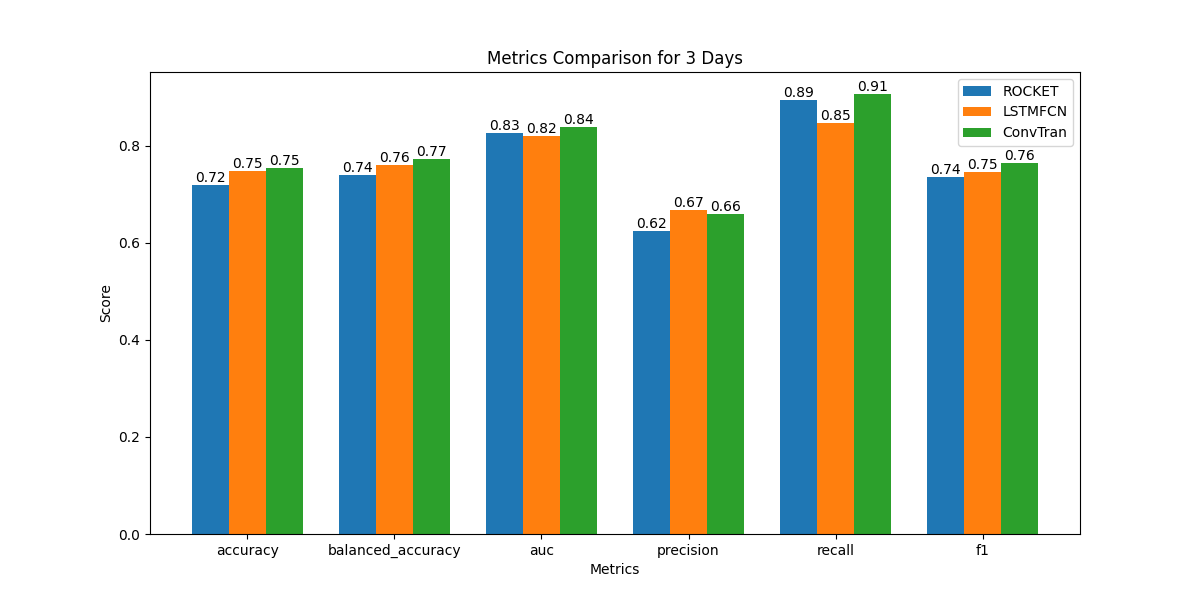
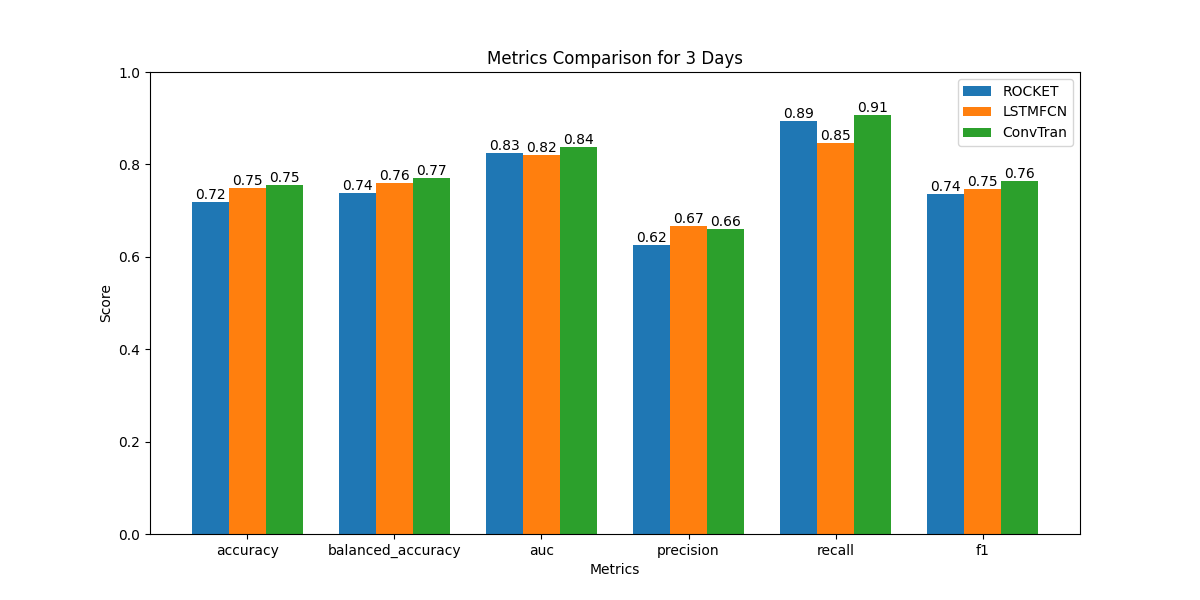
Plots update

diff --git a/_04_test/_01_mcNemarTest.py b/_04_test/_01_mcNemarTest.py
@@ -1,6 +1,6 @@
 import os
 import sys
-import argparse
+import matplotlib.pyplot as plt
 import torch
 import numpy as np
 from statsmodels.stats.contingency_tables import mcnemar
@@ -48,7 +48,7 @@ def predict(model_type: str, model: Any, X: np.ndarray, params: Dict, device: to
     return np.array(preds)
 
 def mcnemar_test(y_true: np.ndarray, pred1: np.ndarray, pred2: np.ndarray, 
-                 model_names: Tuple[str, str], output_dir: str) -> float:
+                 model_names: Tuple[str, str]) -> float:
     """Perform McNemar's test and save results"""
     # Create contingency table
     correct_1 = (pred1 == y_true)
@@ -62,29 +62,53 @@ def mcnemar_test(y_true: np.ndarray, pred1: np.ndarray, pred2: np.ndarray,
     # Perform statistical test
     result = mcnemar(contingency_table, exact=True)
     
-    # Save visualization
-    img_path = os.path.join(output_dir, f"mcnemar_{model_names[0]}_vs_{model_names[1]}.png")
-    _myFunctions.save_contingency_matrix_with_mcnemar(
-        contingency_table, img_path, model_names[0], model_names[1], result.pvalue
-    )
-
     # Print results
     print(f"\nMcNemar's Test Results ({' vs '.join(model_names)}):")
     print(f"Contingency Table:\n{np.array(contingency_table)}")
     print(f"p-value: {result.pvalue:.4f}")
     print("Statistically significant" if result.pvalue < 0.05 else "No significant difference")
     
-    return result.pvalue
+    return result.pvalue, np.array(contingency_table), model_names
 
-def compare_with_McNemar(models_type: str, days: Tuple[int, int], data_dir: str, model_dir: str, base_output_dir: str):
+def create_combined_contingency_plot(contingency_data: list, output_dir: str):
+    """Create a combined plot with multiple contingency matrices"""
+    n = len(contingency_data)
+    fig, axes = plt.subplots(1, n, figsize=(6*n, 6), constrained_layout=True)
 
+    for idx, (contingency_table, model_names, p_value) in enumerate(contingency_data):
+        ax = axes[idx] if n > 1 else axes
+        im = ax.imshow(contingency_table, cmap='Blues')
+        
+        # Add text annotations
+        for i in range(2):
+            for j in range(2):
+                ax.text(j, i, str(contingency_table[i, j]), 
+                        ha='center', va='center',
+                        fontsize=14, color='white' if contingency_table[i, j] > np.max(contingency_table) / 2 else 'black')
+                        
+        # Configure axes
+        ax.set_title(f"{model_names[0]} vs {model_names[1]}\np-value: {p_value:.2e}")
+        ax.set_xlabel(f'{model_names[1]} Predictions', fontsize=12)
+        ax.set_ylabel(f'{model_names[0]} Predictions')
+        ax.set_xticks([0, 1])
+        ax.set_yticks([0, 1])
+        ax.set_xticklabels(["Model 2 Wrong", "Model 2 Correct"], fontsize=12)
+        ax.set_yticklabels(["Model 1 Wrong", "Model 1 Correct"], fontsize=12)
+
+        # Add colorbar
+        cbar = fig.colorbar(im, ax=ax, fraction=0.04, pad=0.04)
+        cbar.ax.tick_params(labelsize=12)
+
+    plt.savefig(os.path.join(output_dir, "combined_contingency_matrices.png"), dpi=300)
+    plt.close()
+
+def compare_with_McNemar(models_type: str, days: Tuple[int, int], data_dir: str, model_dir: str, output_dir: str):
+    device = torch.device("cuda" if torch.cuda.is_available() else "cpu")
+    os.makedirs(output_dir, exist_ok=True)
+    contingency_data = []
+    
     for model_type in models_type:
-        output_dir=os.path.join(base_output_dir, model_type)
-
         """Main comparison workflow"""
-        device = torch.device("cuda" if torch.cuda.is_available() else "cpu")
-        os.makedirs(output_dir, exist_ok=True)
-
         # Load both models
         models = []
         for day in days:
@@ -107,9 +131,11 @@ def compare_with_McNemar(models_type: str, days: Tuple[int, int], data_dir: str,
 
         # Perform statistical test
         model_names = [f"{model_type}_{day}Days" for day in days]
-        mcnemar_test(models[0][3], *predictions, model_names, output_dir)
+        p_value, contingency_table, model_names = mcnemar_test(models[0][3], *predictions, model_names)
+        contingency_data.append((contingency_table, model_names, p_value))
 
-
+    # Create combined plot
+    create_combined_contingency_plot(contingency_data, output_dir)
 
 if __name__ == "__main__":
     models_type = ["ROCKET","LSTMFCN","ConvTran"]
@@ -123,5 +149,5 @@ if __name__ == "__main__":
         days=days,
         data_dir=data_dir,
         model_dir=model_dir,
-        base_output_dir=base_output_dir
+        output_dir=base_output_dir
         )

diff --git a/_04_test/_00_test_roc_bar_metrics.py b/_04_test/_00_test_roc_bar_metrics.py
@@ -128,7 +128,11 @@ def test_all(base_path = os.path.join(current_dir, "plots_and_metrics_test"),
             # Store confusion matrix
             conf_matrices[model_name] = metrics['conf_matrix']
             # Store predictions for UMAP
-            day_umap_data['models'][model_name] = y_prob
+            day_umap_data['models'][model_name] = {
+                'prob': y_prob,
+                'pred': y_pred,  # Store threshold-based predictions
+                'threshold': threshold  # Store the actual threshold used
+                }
             
             """
             # ---------------------------
@@ -241,6 +245,7 @@ def test_all(base_path = os.path.join(current_dir, "plots_and_metrics_test"),
         plt.title(f'Metrics Comparison for {day} Days')
         plt.xlabel('Metrics')
         plt.ylabel('Score')
+        plt.ylim((0,1))
         plt.xticks(index + bar_width, metrics)
         plt.legend()
         output_path_per_day = os.path.join(base_path,f"day {day}")
@@ -289,21 +294,23 @@ def test_all(base_path = os.path.join(current_dir, "plots_and_metrics_test"),
         # Plot model predictions in subsequent columns
         for model_idx, model_name in enumerate(models, start=1):
             ax = fig.add_subplot(gs[day_idx, model_idx])
-            y_prob = data['models'][model_name]
+            model_data = data['models'][model_name]
             
             # Plot UMAP colored by predictions
             sc = ax.scatter(embedding[:, 0], embedding[:, 1], 
-                           c=y_prob, cmap="coolwarm", 
+                           c=model_data['prob'], cmap="coolwarm", 
                            alpha=0.7, s=15, edgecolors='none',
                            vmin=0, vmax=1)
             
-            ax.set_title(f"{model_name} - {day} Days", fontsize=12)
+            ax.set_title(f"{model_name} - {day} Days\n(Threshold: {model_data['threshold']:.2f})", 
+                         fontsize=12)
             ax.set_xticks([])
             ax.set_yticks([])
             
             # Add ground truth contours
             for label in [0, 1]:
-                mask = (df_test['BLASTO NY'] == label).values
+                mask = (model_data['pred'] == label)
+                mask = (y_pred == label)
                 if mask.sum() > 10:  # Only plot contours if enough points
                     sns.kdeplot(x=embedding[mask, 0], y=embedding[mask, 1],
                                levels=3, color='blue' if label == 0 else 'red',

diff --git a/_04_test/_mainTest.py b/_04_test/_mainTest.py
@@ -34,7 +34,7 @@ def main():
         days=days,
         data_dir=data_dir,
         model_dir=model_dir,
-        base_output_dir=base_output_dir
+        output_dir=base_output_dir
         )
 
     boostrap_evaluation(
